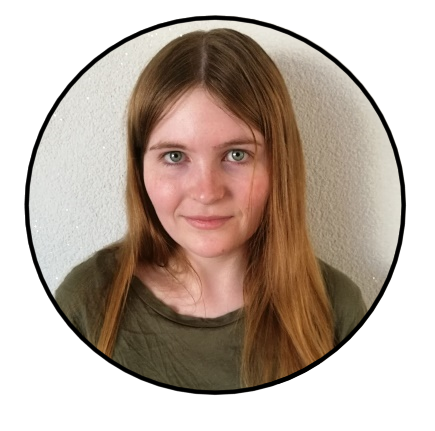
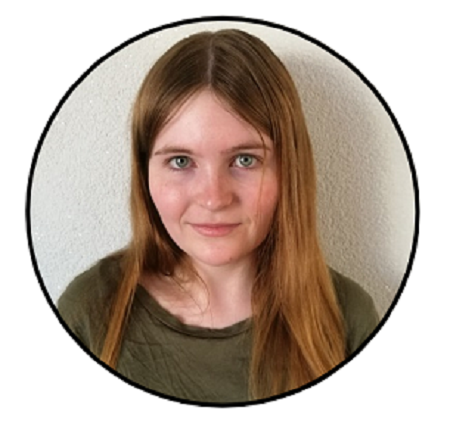
main image placement fix

diff --git a/index.html b/index.html
@@ -35,7 +35,7 @@
 							<article class="post featured">
 								<header class="major">
 									<h1 id="name">Agnieszka Sadowy</h1>
-									<img src="images/zdjb.png" alt="" />
+									<a class="image main"><img src="images/zdjdocv.png" alt="" /></a>
 									<p>Mam 21 lat i mieszkam w Łodzi. Jestem studentką Information Technology na Politechnice Łódzkiej. </br> Jestem zorganizowana, odpowiedzialna i otwarta na naukę nowych technologii.</p>
 								</header>
 							</article>

diff --git a/assets/css/main.css b/assets/css/main.css
@@ -2641,9 +2641,10 @@ input, select, textarea {
 			}
 
 		.image.main {
-			display: block;
-			margin: 4rem 0;
-			width: 100%;
+			border: 5px solid #01021e;
+			border-radius: 50%;
+			margin: 0;
+			margin-bottom: 10px;
 		}
 
 			.image.main:first-child {
